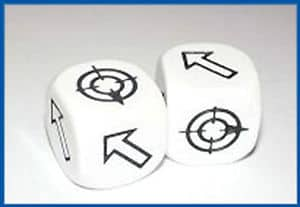
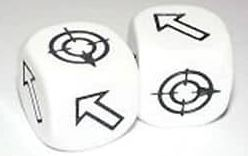
Updated grenades

diff --git a/src/components/Grenades.jsx b/src/components/Grenades.jsx
@@ -111,11 +111,16 @@ const Grenades = () => {
         <h3>Advanced Grenade Rules</h3>
         <p>The following grenade rules are unofficial and optional.</p>
         <ul>
-            <li><b>Point Targeting</b>: All grenades can be thrown at specific locations rather than requiring valid targets.</li>
-            <li><b>Ricochet</b>: Grenades can be thrown at walls to bounce them around corners. Angles must be approximated in a realistic way, bounces are limited to 1 per grenade throw, and the grenade can't travel further than it's maximum range.</li>
-            <li><b>Breaching</b>: Explosive grenades can be thrown at doors (and hatchways, etc) to blow the door out. From that point on, the door is open and can't be closed.</li>
-            <li><b>Lobbing</b>: Grenades can be thrown 50% further than their maximum range (for example, 9" instead of 6", as 50% of 6 is 3). When lobbing a grenade, nominate the desired location then roll a scatter dice and a d3; the grenade lands at a distance equal to the value of the d3 in inches away from the desired location and in the direction the scatter dice is pointing.</li>
+            <li><b><em>Point Targeting</em></b>: All grenades can be thrown at specific locations rather than requiring valid targets.</li>
+            <li><b><em>Ricochet</em></b>: Grenades can be thrown at walls to bounce them around corners. Angles must be approximated in a realistic way, bounces are limited to 1 per grenade throw, and the grenade can't travel further than it's maximum range.</li>
+            <li><b><em>Breaching</em></b>: Explosive grenades can be thrown at doors (and hatchways, etc) to blow the door out. From that point on, the door is open and can't be closed.</li>
+            <li><b><em>Destructive</em></b>: If a Ladder, Light Barricade or Portable Barricade falls under a frag grenade's blast range, it is destroyed and removed from the killzone.</li>
+            <li><b><em>Lobbing</em></b>: Grenades can be thrown 50% further than their maximum range (for example, if the grenade has a range of 6" it can be lobbed 9", as 50% of 6 is 3). When lobbing a grenade, nominate the desired location then roll a scatter dice and a d3; the grenade lands at a distance equal to the value of the d3 in inches away from the desired location and in the direction the scatter dice is pointing.</li>
         </ul>
+        <figure>
+            <img src="https://raw.githubusercontent.com/jackmadethat/killteam/refs/heads/main/src/img/scatter-dice.jpg" className="imgGraphic" />
+            <p>Scatter dice. If the die lands on the crosshair, the throw is accurate and the grenade lands on target.</p>
+        </figure>
     </div>
   )
 }
